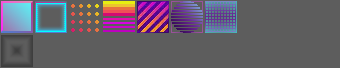
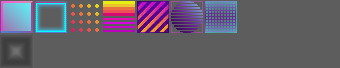
Use the block textures for the 2d ones

Changed region(s): [[0.0, 0.5588, 0.0882, 0.9118]]

diff --git a/core/src/lando/systems/ld47/Assets.java b/core/src/lando/systems/ld47/Assets.java
@@ -40,6 +40,7 @@ public class Assets implements Disposable {
     public TextureRegion whitePixel;
     public TextureRegion whiteCircle;
     public TextureRegion gameBoardTexture;
+    public TextureRegion[] blockFaces;
     //public TextureRegion tetradSquare;
     public Animation<TextureRegion> orangeBlock;
     public Animation<TextureRegion> redBlock;
@@ -113,6 +114,11 @@ public class Assets implements Disposable {
 
         blockTextures = mgr.get(blockTextureAsset);
         blockTextures.setFilter(Texture.TextureFilter.Linear, Texture.TextureFilter.Linear);
+
+        blockFaces = new TextureRegion[7];
+        for (int i = 0; i < 7; i++){
+            blockFaces[i] = new TextureRegion(blockTextures, (1 + 34f * i)/340f, 0, (34 * (i+1) -1 )/ 340f, 33/68f);
+        }
 
         atlas = mgr.get(atlasAsset);
 

diff --git a/core/src/lando/systems/ld47/entities/Tetrad.java b/core/src/lando/systems/ld47/entities/Tetrad.java
@@ -99,7 +99,7 @@ public class Tetrad {
         } else {
             batch.setColor(Color.WHITE);
         }
-        TextureRegion blockImage = animation.getKeyFrame(GLOBAL_ANIM);
+        TextureRegion blockImage = game.assets.blockFaces[type];
         for (TetradPiece point : points) {
             if (!point.remove) {
                 batch.draw(blockImage, position.x + (POINT_WIDTH * point.x), position.y + (POINT_WIDTH * point.y), POINT_WIDTH, POINT_WIDTH);
